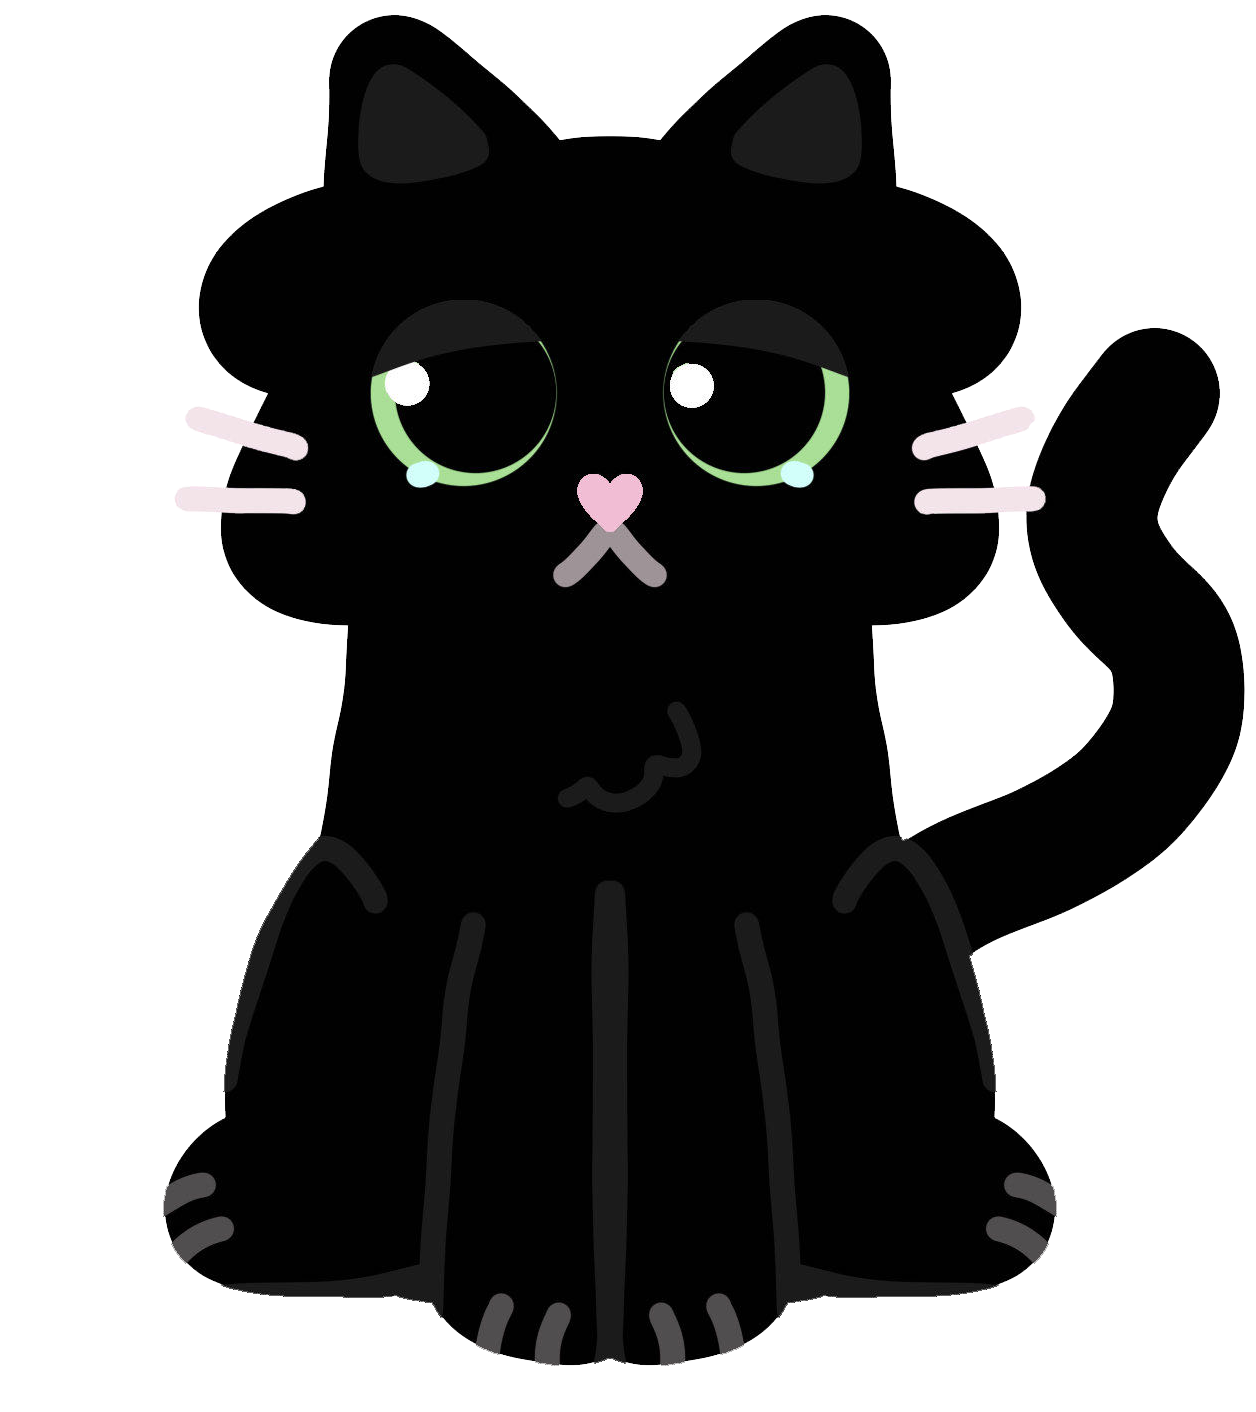
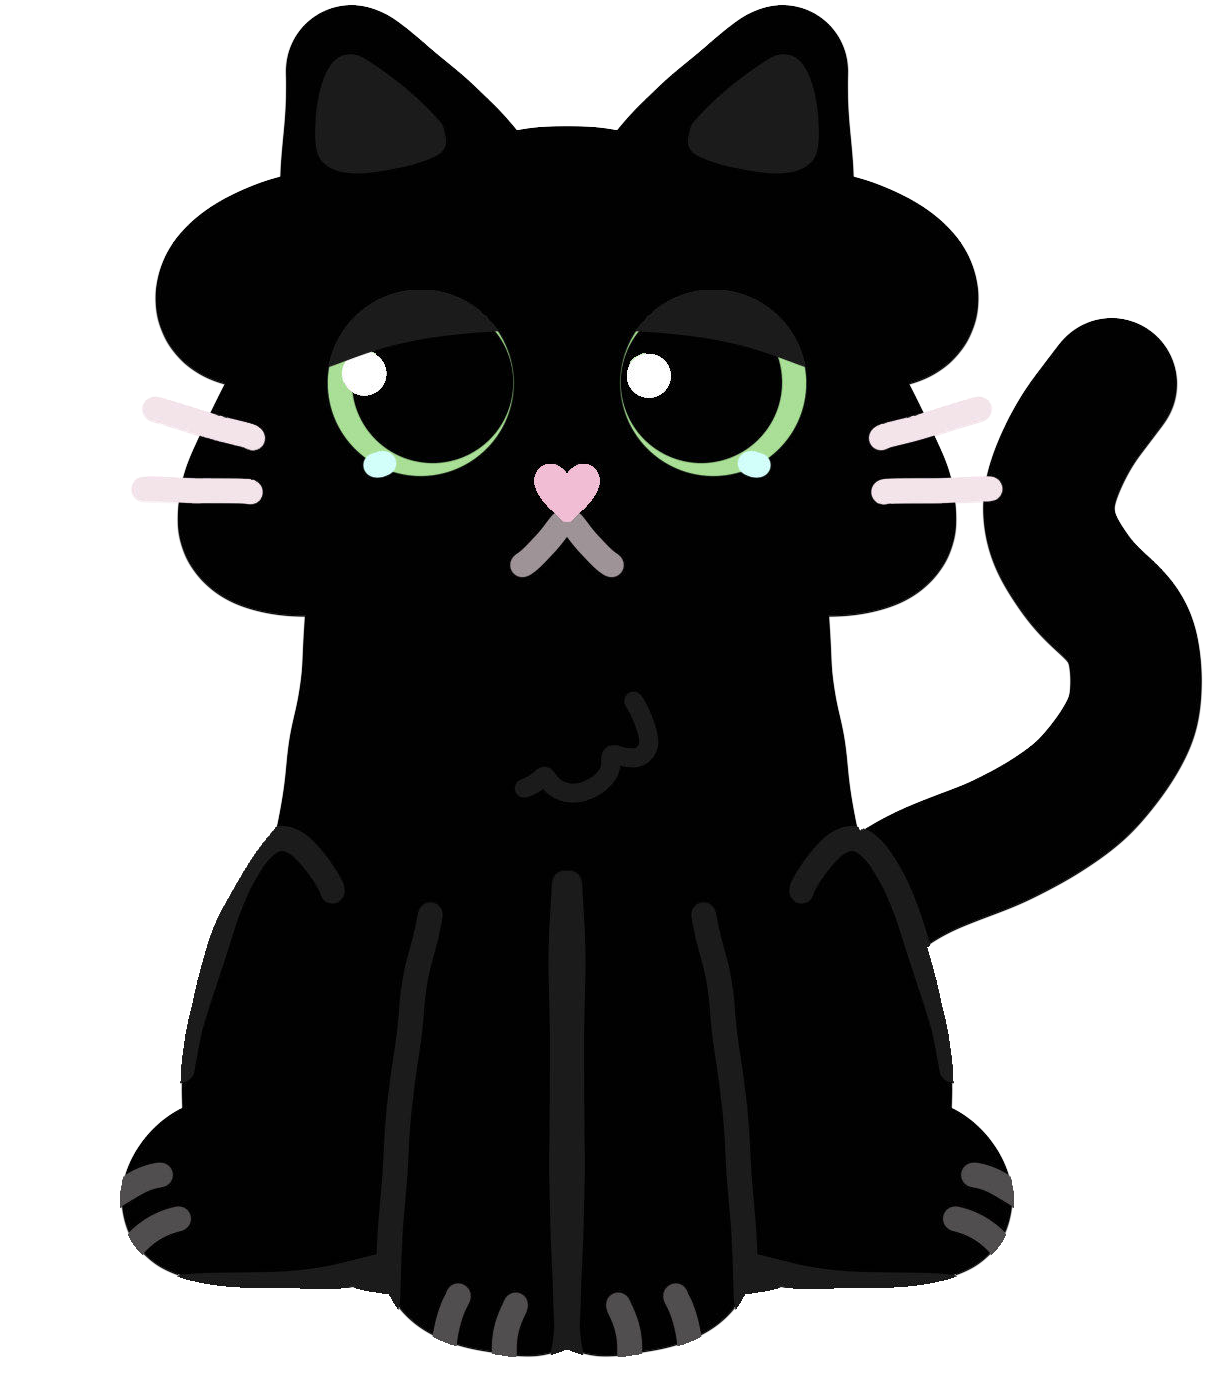
Add files via upload

diff --git a/indexjs.js b/indexjs.js
@@ -41,6 +41,10 @@
     });
 })();
 
+function getPet() {
+    return localStorage.getItem("selectedPet") || "black";
+}
+
 //points
 function getUserPoints(user) {
     return parseInt(localStorage.getItem(`points_v1:${user}`) || "0", 10);
@@ -98,8 +102,12 @@ function deductUserPoints(user, amt) {
 
 
 //pet animations
-const petContainer = document.getElementById("petContainer");
-petContainer.classList.add("idle-animation");
+document.addEventListener("DOMContentLoaded", () => {
+    const petContainer = document.getElementById("petContainer");
+    if (petContainer) {
+        petContainer.classList.add("idle-animation");
+    }
+});
 
 function runPetAnimation(className) {
     petContainer.classList.remove("idle-animation", "sleep-animation");
@@ -117,42 +125,36 @@ petContainer.addEventListener("animationend", () => {
 
 function runEatingAnimation() {
     const pet = document.getElementById("petContainer");
+    const petImg = document.getElementById("petImage");
+
+    const base = localStorage.getItem("selectedPet") || "black";
+
     pet.classList.remove("eat-animation");
     void pet.offsetWidth;
     pet.classList.add("eat-animation");
-    const bowl = document.createElement("div");
-    bowl.className = "eat-bowl";
-    bowl.textContent = "🍲";
-    pet.appendChild(bowl);
-    setTimeout(() => bowl.remove(), 1000);
 
-    for (let i = 0; i < 2; i++) {
-        const nom = document.createElement("div");
-        nom.className = "eat-noms";
-        nom.textContent = "nom";
-        const baseY = 60;              
-        const randomYOffset = Math.random() * 25;
-        nom.style.top = (baseY + randomYOffset) + "px";
-        const baseX = 70;
-        const spread = 70;             
-        const randomXOffset = Math.random() * 20;
-        nom.style.left = (baseX + i * spread + randomXOffset) + "px";
-        pet.appendChild(nom);
-        setTimeout(() => nom.remove(), 900 + i);
-    }
+    let frame = 0;
+
+    const interval = setInterval(() => {    
+        petImg.src = (frame % 2 === 0)
+            ? `${base}_eat.png`
+            : `${base}_idle.png`;
+
+        frame++;
+
+        if (frame >= 5) {
+            clearInterval(interval);
+            petImg.src = `${base}_idle.png`;
+        }
+    }, 150);
 }
 
 document.addEventListener("DOMContentLoaded", () => {
+    startIdleLoop();
+
     const petContainer = document.getElementById("petContainer");
     if (!petContainer) return; 
     petContainer.classList.add("idle-animation");
-
-    function runPetAnimation(className) {
-        petContainer.classList.remove("idle-animation", "sleep-animation");
-        petContainer.classList.remove("feed-animation", "play-animation", "groom-animation");
-        void petContainer.offsetWidth;
-        petContainer.classList.add(className);
-    }
 
     petContainer.addEventListener("animationend", () => {
         petContainer.classList.remove("feed-animation", "play-animation", "groom-animation");
@@ -180,22 +182,83 @@ document.addEventListener("DOMContentLoaded", () => {
     petContainer.addEventListener("click", (event) => {
         spawnHeart(event.clientX, event.clientY);
     });
-
 });
+
+//idle loop
+function startIdleLoop() {
+    const petImg = document.getElementById("petImage");
+
+    let state = "idle";
+
+    function getBase() {
+        const pet = localStorage.getItem("selectedPet");
+        return pet || "black";
+    }
+
+    function setSprite(type) {
+        const base = getPet();
+        const img = document.getElementById("petImage");
+
+        if (!img || !base) return;
+
+        img.src = `${base}_${type}.png`;
+    }
+
+    setInterval(() => {
+        if (state === "sleep" || state === "sad") return;
+
+        const rand = Math.random();
+
+    if (rand < 0.10) {
+        state = "sleep";
+        setSprite("sleep");
+
+        document.getElementById("sleepZ").classList.add("show");
+
+        setTimeout(() => {
+            state = "idle";
+            setSprite("idle");
+            document.getElementById("sleepZ").classList.remove("show");
+        }, 10000);
+
+        } else if (rand < 0.15) {
+            state = "sad";
+            setSprite("sad");
+
+            setTimeout(() => {
+                state = "idle";
+                setSprite("idle");
+            }, 4000);
+
+        } else {
+            state = "idle";
+            setSprite("idle");
+        }
+
+    }, 4000);
+}
 
 //pet selection
-document.querySelectorAll(".petChoice").forEach(img => {
-    img.addEventListener("click", () => {
-        const selectedPet = img.dataset.pet;
-        document.getElementById("petImage").src = selectedPet;
-        localStorage.setItem("selectedPet", selectedPet);
+document.addEventListener("DOMContentLoaded", () => {
+    const petChoices = document.querySelectorAll(".petChoice");
+
+    console.log("PET CHOICES FOUND:", petChoices.length);
+
+    petChoices.forEach(img => {
+        img.addEventListener("click", () => {
+            const selectedPet = img.dataset.pet;
+
+            console.log("CLICKED:", selectedPet);
+
+            localStorage.setItem("selectedPet", selectedPet);
+
+            const petImg = document.getElementById("petImage");
+            if (petImg) {
+                petImg.src = `${selectedPet}_idle.png`;
+            }
+        });
     });
 });
-
-const savedPet = localStorage.getItem("selectedPet");
-if (savedPet) {
-    document.getElementById("petImage").src = savedPet;
-}
 
 //debug panel
 (function initDebugTools() {
@@ -238,4 +301,5 @@ if (savedPet) {
             }
         });
     }
-})();
+})(); 
+

diff --git a/css1.css b/css1.css
@@ -188,9 +188,6 @@ h3 {                                           /*subtitles*/
 .petChoice:hover {
     transform: scale(1.1);
 }
-.petChoice:selected {
-    border: 3px solid #6c63ff;
-}
 .petChoicesContainer {
     display: flex;
     justify-content: center;
@@ -309,6 +306,34 @@ h3 {                                           /*subtitles*/
     0% { opacity: 0; transform: translateY(0) scale(0.8); }
     30% { opacity: 1; }
     100% { opacity: 0; transform: translateY(-25px) scale(1.1); }
+}
+.sleep-z {
+    opacity: 0;
+    display: none;
+    position: absolute;
+    top: 0px;
+    right: 40%;
+    font-size: 18px;
+    pointer-events: none;
+}
+.sleep-z.show {
+    display: block;
+    opacity: 1;
+    animation: floatZ 2s infinite;
+}
+@keyframes floatZ {
+    0% {
+        transform: translateY(0) scale(0.9);
+        opacity: 0;
+    }
+    20% {
+        opacity: 1;
+        transform: translateY(-5px) scale(1);
+    }
+    100% {
+        transform: translateY(-30px) scale(1.2);
+        opacity: 0;
+    }
 }
 /*--end pet animations--*/
 

diff --git a/index.html b/index.html
@@ -47,17 +47,18 @@
         <h2>Select Your Pet:</h2>
 
         <div class="petChoicesContainer">
-            <img src="black.png" class="petChoice" data-pet="black.png">
-            <img src="calico.png" class="petChoice" data-pet="calico.png">
-            <img src="orange.png" class="petChoice" data-pet="orange.png">
-            <img src="siamese.png" class="petChoice" data-pet="siamese.png">
+            <img src="black_idle.png" class="petChoice" data-pet="black">
+            <img src="calico_idle.png" class="petChoice" data-pet="calico">
+            <img src="orange_idle.png" class="petChoice" data-pet="orange">
+            <img src="siamese_idle.png" class="petChoice" data-pet="siamese">
         </div>
     </div>
 
     <br></br>
 
     <div id="petContainer" class="pet-wrapper">
-        <img id="petImage" src="black.png" alt="black cat">
+        <img id="petImage" src="black_idle.png" alt="black cat">
+        <div id="sleepZ" class="sleep-z">zZz</div>
     </div>
 
     <br><br>
@@ -80,7 +81,7 @@
     <br>
 </div>
 
-<script src="indexjs.js"></script>
+<script src="indexjs.js" defer></script>
 
 </body>
 